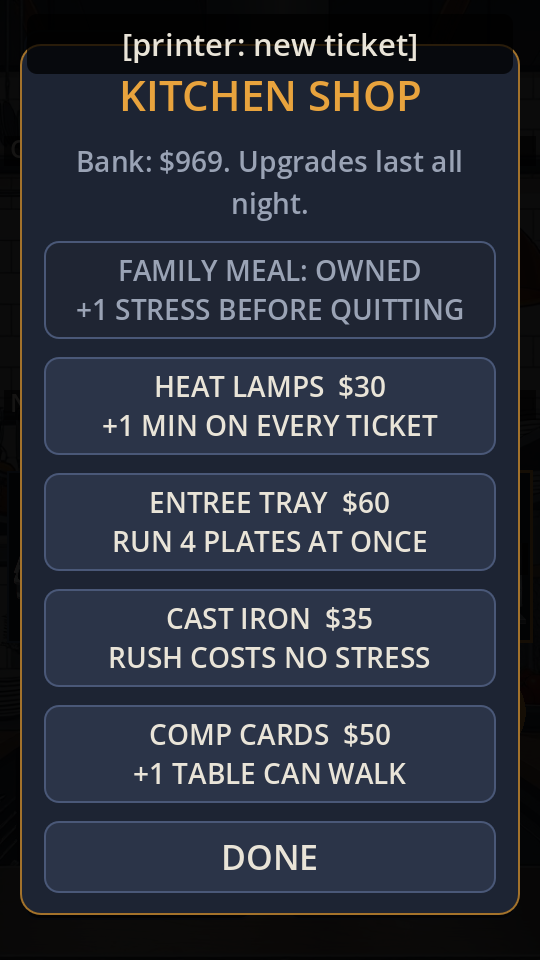
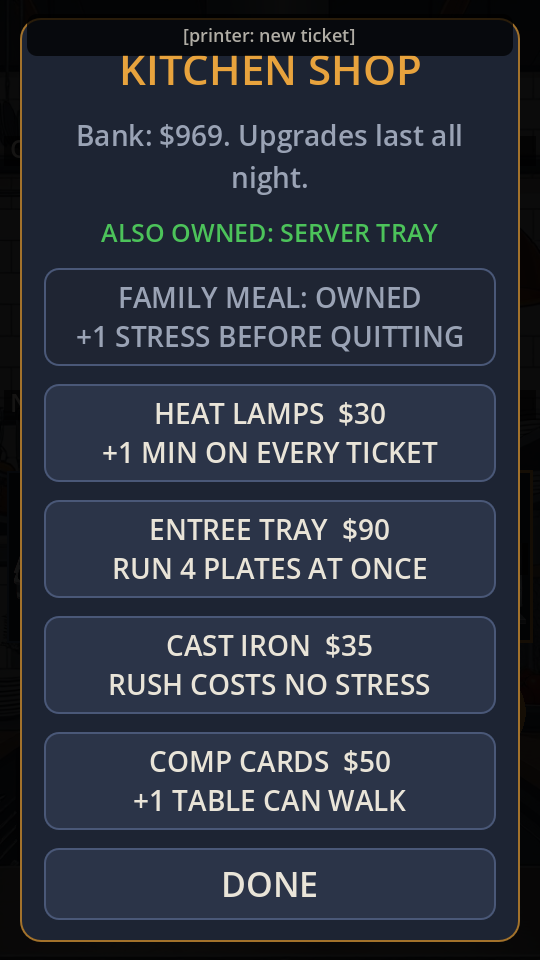
Polish pass from a first-time player review (#21)
* Real art, part 1: kitchen wall and the four stations

Forge renders in style A (flat ink), cut to transparent PNGs and cleaned
(key spill, a fake brand name on the fryer). The wall sits under a 55% dark
wash so text stays readable; text on art gets a dark plate. Every state a
player reads (pans, clocks, rings) is still drawn in code on top.

Claude-Session: https://claude.ai/code/session_01V3sbxLu4c4oLEvnvp25i9E

* Real art, part 2: cook portraits and dish icons

DEV and MO get round portrait tokens (name on a plate), each pan shows its
dish icon inside the state ring, and a carried plate rides on the cook's
shoulder. Pan state is still spelled out (2', UP!, BURN!) with a thicker ring
before a burn, so colour and art never carry it alone.

Claude-Session: https://claude.ai/code/session_01V3sbxLu4c4oLEvnvp25i9E

* Real art, part 3: fries reroll + art log

Claude-Session: https://claude.ai/code/session_01V3sbxLu4c4oLEvnvp25i9E

* Kitchen background: busy line wall, text on plates

Duff asked for a more kitchen-like background. New Forge take (hood,
hanging pans, heat lamps, stove line); status, NEXT, carried plate and
WALKED OUT text now sit on dark plates so they read over it. Pan text
names the dish on UP/BURN (fresh-eyes note from #7).

Claude-Session: https://claude.ai/code/session_01V3sbxLu4c4oLEvnvp25i9E

* Pan label fits at every text size; NEXT plate under the +N count

Fresh-eyes on #8: 'BURGER BURN!' spilled into the next station at text
[…]

Changed region(s): [[0.0296, 0.0312, 0.9778, 1.0]]

diff --git a/CLAUDE.md b/CLAUDE.md
@@ -71,6 +71,12 @@ the handoff between sessions. Commands, standing rules, guards and layout: AGENT
   (`pick_ix`, `dish_at`, rows DISH_ROW0/DISH_ROW); FIRE cooks it when the cook is at its station and the
   button names it ("FIRE STEAK"), else falls back to the table's first dish there (`fire_pick(c, tid, ix)`).
   DISH PICK PASS.
+- Nov 25 first-time-player review (7/10; reviews are played blind now, Duff's rule): polish pass. Ticket
+  rows say "at GRILL" / "cooking" / "on the pass" / "served" (struck) instead of ~ > V; the NEXT bar is
+  words ("1 dish in 2 min", `next_line`); hidden tickets get a "+N MORE" badge (red if one is red);
+  a pan about to burn says PLATE NOW and END TURN reads "END TURN / GRILL BURNS"; the idle button says
+  TAP A STATION; coach hints sit on a dark band; sound captions sit above the status line
+  (`Subs.lift`) in a softer style; the shop lists OWNED. POLISH PASS.
 - Latest build: Releases -> `dev` -> `Rush.apk`.
 - Nov 24: Eyes (docs/EYES.md): a cloud session can run Rush, tap buttons, read the screen and
   screenshot it. `tools/eyes/smoke.json` plays a turn. Copied from the starter (Duff's OK).
